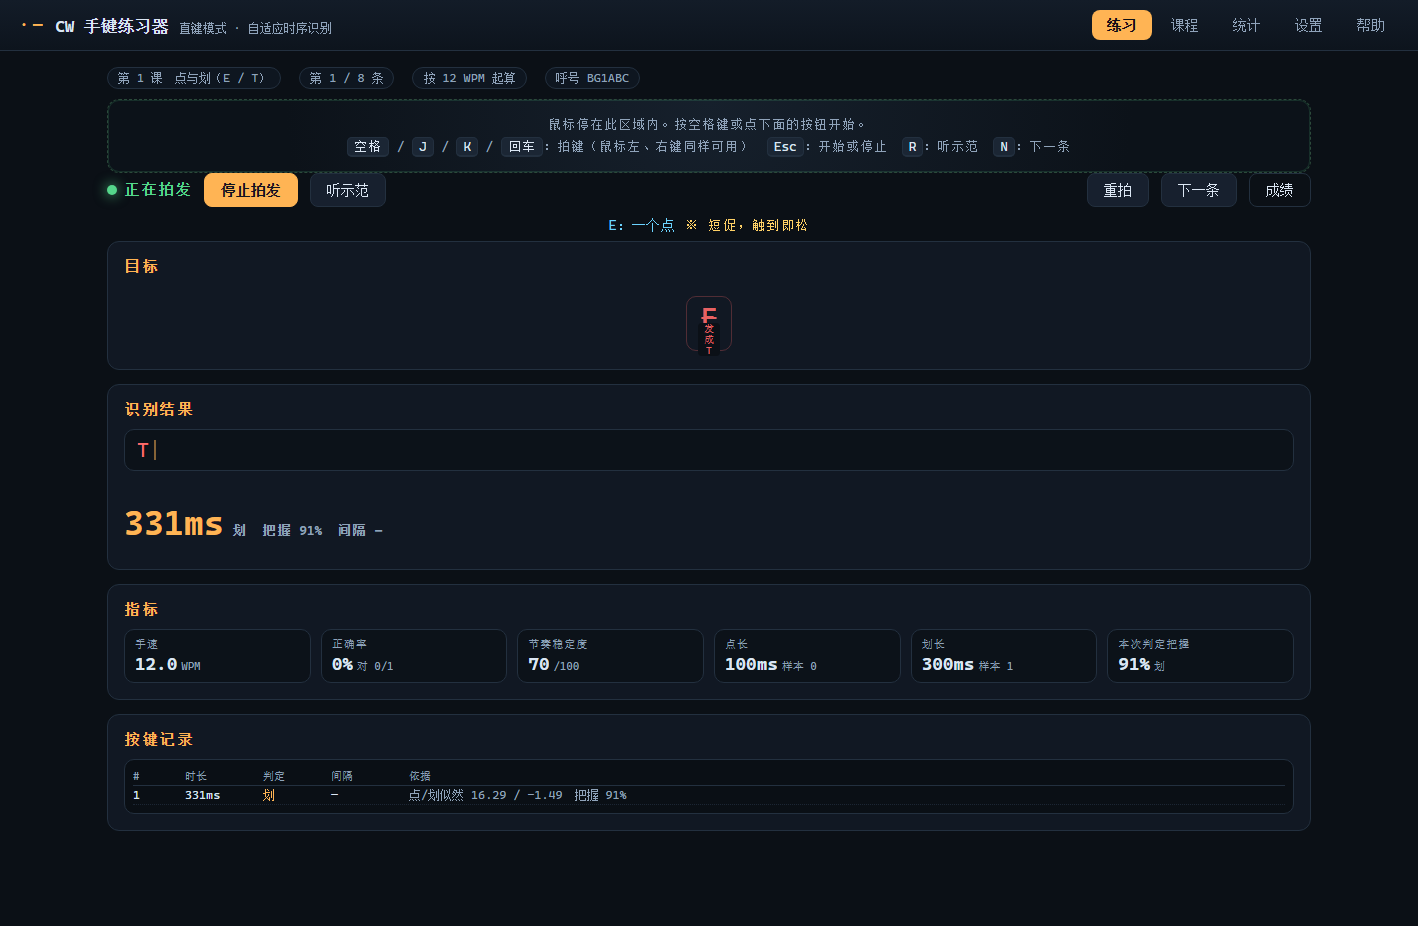
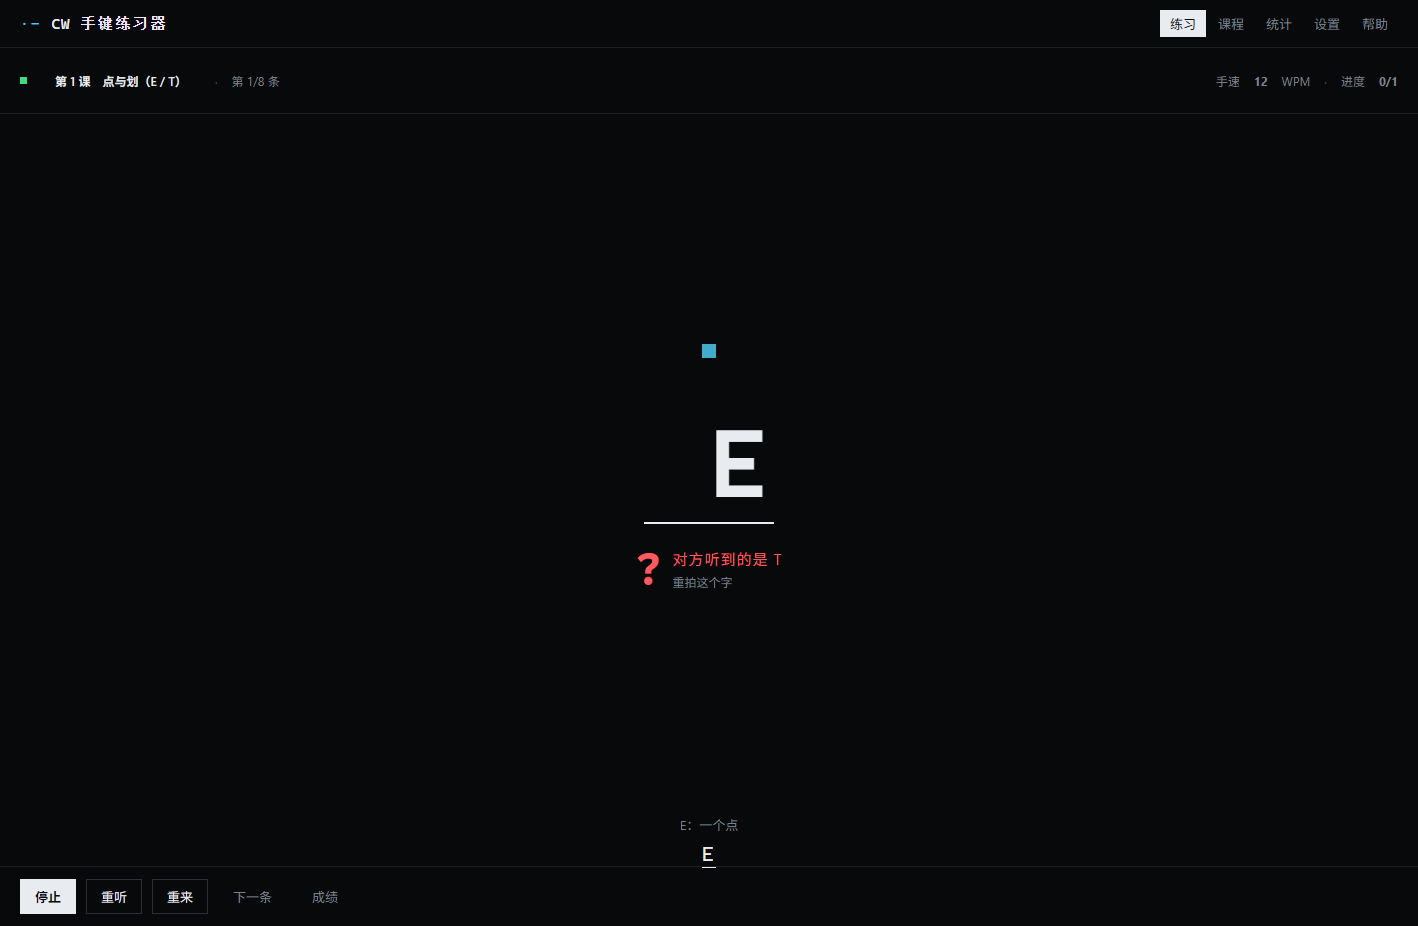
docs: 更新架构说明与线上验收截图
- README：判定说明、目录结构、测试命令、已知取舍
- 重新生成 .shots-live 下的 12 张验收截图
- .gitignore 忽略 cdp-profile/

diff --git a/README.md b/README.md
@@ -15,29 +15,31 @@
 ```bash
 pnpm install          # 装开发依赖（只有 vite / typescript / @types/node）
 pnpm dev              # 开发服务器，默认 http://localhost:5173
-pnpm test             # 核心逻辑单元测试（Node 原生，零依赖，19 个用例）
+pnpm test             # 核心逻辑单元测试（Node 原生，零依赖，36 个用例）
 pnpm build            # tsc 类型检查 + vite 打包到 dist/
 pnpm build:nodeps     # 零依赖构建（只用 Node，见下文“为什么有两套构建”）
 pnpm verify:dist      # 产物自检：路径/依赖是否能在子目录下正常部署
 pnpm test:smoke       # 无浏览器冒烟测试：用最小 DOM 桩把产物真跑一遍
+pnpm test:audio       # 离线渲染侧音波形，断言点划长度与段数
 pnpm serve            # 用零依赖静态服务器预览 dist（默认 8080）
 pnpm test:browser     # 用无头 Chrome 真点真拍并截图（见“浏览器实测”）
 ```
 
-打开页面后：**课程**里选一课 → **练习** → 点「武装手键」（或按 `Esc`）→ 像拍真直键一样点击。
+打开页面后：**课程**里选一课 → **练习** → 点「开始」（或按 `Esc`）→ 像拍真直键一样点击。
 
 没有硬件也能练：鼠标左键/右键、键盘 `空格` `J` `K` `回车` 都可以当直键。
-`Esc` 武装/解除，`R` 听当前条目的标准参考发送，`N` 下一条。
+`Esc` 开始/停止，`R` 听当前条目的标准参考发送，`N` 下一条。
 
 ## 自动化测试与“截图验收”
 
-三层，全部零依赖（不引入 puppeteer/playwright）：
+四层，全部零依赖（不引入 puppeteer/playwright）：
 
 | 命令 | 做什么 |
 | --- | --- |
-| `pnpm test` | 核心算法单测：时序模型收敛、抖动 ±18% 下的解码、不同手速自适应、回改行为、对齐计分、性能预算 |
-| `pnpm test:smoke` | 构建产物 + 最小 DOM 桩，真跑一遍 App：路由、渲染、拍一段字、结算弹窗（25 项断言） |
-| `pnpm test:browser` | 用 CDP 驱动无头 Chrome 打开页面，真点按钮、真按空格拍键，截图并断言 |
+| `pnpm test` | 引擎行为规格（拍错不放过、前缀不判错、50~250ms 手速自适应）+ 码表、课程、进度 |
+| `pnpm test:smoke` | 构建产物 + 最小 DOM 桩，真跑一遍 App：路由、渲染、拍一段字、结算弹窗（26 项断言） |
+| `pnpm test:audio` | `OfflineAudioContext` 离线渲染，断言一个点只响 100ms、PARIS 响 14 段 |
+| `pnpm test:browser` | 用 CDP 驱动无头 Chrome 打开页面，真点按钮、真按空格拍键，截图并断言（25 项） |
 
 `pnpm test:browser` 需要先起静态服务器：
 
@@ -47,9 +49,10 @@ pnpm test:browser                     # 截图输出到 .shots/
 CW_URL=https://lionnatsu.github.io/cw-practice/ pnpm test:browser   # 也可以直接测线上
 ```
 
-它会检查：页面不是空白、无 JS 报错、武装状态、**判对的字是不是真的变绿**（读 computed
-style 比对 rgb 值）、判错是不是真的变红、诊断面板有记录、结算弹窗有成绩，并留下 10 张
-截图（帮助/练习/武装/拍对/拍错/结算/课程/设置/统计）。
+它会检查：页面不是空白、无 JS 报错、开始状态、**判对的字是不是真的变绿**（读 computed
+style 比对 rgb 值）、按住时发报条是不是真的长出来、拍错是不是真的给红问号、
+成绩弹窗有成绩、报文里能看出分词，并留下 12 张截图（帮助/练习/开始/按住/拍对/拍错/
+结算/课程/长报文/设置/统计）。
 
 > 之所以做这些，是因为踩过一次真实的坑：线上白屏了两轮，第一轮是 Pages 发的是仓库根
 > 目录而不是构建产物，第二轮是产物里残留 `src="/./main.js"`（绝对路径 → 子目录下 404）。
@@ -57,44 +60,35 @@ style 比对 rgb 值）、判错是不是真的变红、诊断面板有记录、
 
 ## 它是怎么“听懂”手键的
 
-三层结构，都在 `src/core/`：
+全部判定都在 `src/core/practice.ts` 一个文件里，别处不再判。练习是**串行**的：
+目标字从左到右，一次只发一个字。
 
-### 1. 自适应时序模型（`timing-model.ts`）
+### 1. 按你自己的长短读码
 
-维护最近 64 次按键，每次都用当前模型对它们重新做一次 **2-means 聚类**，
-得到“点长、划长”以及各自的相对标准差 σ。
+按键本身不判定，只记下时长。判定发生在停顿：静音超过 `symbolGapMax`（2.5 个单位）
+就认为这个字发完了。
 
-为什么不能只做指数滑动平均：一旦某次分类把 150ms 的“点”误判成“划”，这个错误会被
-直接吸收进划长的估计，模型越跑越歪（实测会把点划合并）。整体重估让误差不会自我强化，
-点划本来就重叠时也能如实反映（σ 变大、置信度降低，而不是硬判）。
+这时才把这次尝试整段读一遍。读法是**枚举说得通的单位时长假设**，各自算一个代价：
 
-### 2. 全局最优分割（`decoder.ts`）
+- 每个码元要么是 1 个单位（点）、要么是 3 个单位（划），取更像的那个；
+- 段内间隔应当接近 1 个单位；
+- 离起始速度越远代价越高。
 
-每按一下，对**到目前为止的全部按键**重跑一遍动态规划：
+候选的单位来自这次尝试自己的时长和间隔，再加上“目标字本该发几个单位”这个提示。
+代价最低的假设胜出。所以起始速度设得不准也不致命：第一两个字之后，
+点长就跟着你的手走了。
 
-```
-dp[i] = 前 i 个按键解析完、且恰好以一个字符结尾的最小代价
-转移  = dp[start] + 码元似然(start..end) + 字内间隔代价 + 断字代价 + 收尾代价
-```
+### 2. 宁可多等，不误判
 
-- 码元似然：对数正态，来自第 1 层的自适应参数
-- 间隔代价：三种间隔（1/3/7 个单位）各用一个对数正态去比较，取相对最优的差值，
-  保证量级和码元似然可比（早期版本这里用固定常数，结果“断字代价”被 40 nat 的
-  码元似然彻底淹没，整句会被认成一串 E）
-- 收尾代价：必须有（否则“把两个字符拼成一个更长的码字”因为不用收尾而显得更便宜）
-- 语料偏置：课程里出现过的字符有一点点优惠，用来打破 `PARIS` vs `P+5` 这类平局
+断字用的是**最宽松的那个说得通的假设**，而不是最优假设。刚开始拍时点划还分不清，
+一个 540ms 的按键既可能是慢的点、也可能是快的划；这时急着断字，就会出现
+“字没拍完就给负反馈”。宽松一点只是多等一会儿，误判却会把人打回去重拍。
 
-### 3. 可回改的落账（`decoder.ts` 的 `updateCommitted`）
+### 3. 一个字只有整个读对才收下
 
-维护最近 6 轮的解释，取它们的**最长公共前缀**作为“已落账”的内容；
-公共前缀变短时，已落账的字会被自动撤回/改写，UI 上提示 `已回改前面第 N 个字符：T → 5`。
-抄收区里的斜体字就是“还没落定、随时可能变”的部分。用户一停顿（默认 3.5 个单位时间，
-可在设置里调），整条最优解释立刻全部落定。
-
-### 附：为什么“停顿”很重要
-
-CW 里字符之间是靠静音长度区分的（1 / 3 / 7 个单位 = 码元内 / 字符间 / 词间）。
-停顿既是解码证据，也是“空格”的来源 —— 你不需要真的把空格发出来。
+- 读出来正好是目标字 → 收下。**只要码形凑齐就立刻收**，不必等停顿，所以手感是跟手的；
+- 读出来不是目标字 → 不认，给一次负反馈（“对方听到的是 X”），原地重发；
+- 拍错的字不前进、不跳过。全对才走完。
 
 ## 关于硬件与精度（重要）
 
@@ -103,8 +97,8 @@ CW 里字符之间是靠静音长度区分的（1 / 3 / 7 个单位 = 码元内 
 - 12 WPM（点长 100ms）下完全够用；25 WPM 以上（点长 48ms）量化台阶相对点长就变大了，
   识别开始变糙。真要高速高精度，需要能上报真实时间戳的串口/键盘设备。
 - 程序监听的是 `mousedown` / `mouseup`（不是 `click`），所以系统双击检测不会干扰计时。
-- 设置页最下面有一个**校准台**：连拍几十下，可以实时看到点长/划长/σ/误判概率的收敛情况，
-  识别不准时先看这里。
+- 输入只丢弃短于 18ms 的脉冲。低于它的按键根本不像人按的，而丢一个点就是丢一个码元。
+- 设置页最下面有一个**校准台**：连拍几十下，可以直接看到自己的点长、划长。
 
 ## 目录结构
 
@@ -112,14 +106,11 @@ CW 里字符之间是靠静音长度区分的（1 / 3 / 7 个单位 = 码元内 
 index.html            页面骨架（顶部 tab + #view 容器）
 src/styles.css        全部样式（深色、等宽字体）
 src/main.ts           入口：装配 App、路由、各视图
-src/App.ts            全局状态宿主（设置、进度、音频、当前会话）
+src/App.ts            全局状态宿主（设置、进度、音频、当前引擎）
 src/core/             ← 与 UI 完全解耦，可在 Node 里直接测
   types.ts            公共类型
   morse.ts            码表 + 前缀树 + prosign
-  timing-model.ts     自适应点划模型（2-means 重估、置信度）
-  decoder.ts          全局最优分割 + 可回改落账
-  alignment.ts        解码结果与目标文本的编辑距离对齐 + 成绩汇总
-  session.ts          会话编排（按键 → 模型 → 解码 → 对齐 → 快照）
+  practice.ts         练习引擎：读码、判定、速度估计、成绩单（唯一判定来源）
   lessons.ts          课程内容（词组、缩略语、QSO，带中文含义）
   audio.ts            侧音 + 参考发送（Web Audio 调度）
   settings.ts         设置与进度的 localStorage 持久化
@@ -132,7 +123,12 @@ src/ui/               ← 视图与输入
   stats-view.ts       统计（逐字符错误率、课程记录、导入导出）
   settings-view.ts    设置 + 手键校准台
   help-view.ts        帮助
-tests/core.test.ts    核心逻辑测试（node:test，零依赖）
+tests/engine.test.ts  引擎行为规格：判定、分段、手速自适应（node:test，零依赖）
+tests/core.test.ts    外围：码表、课程内容、设置与进度、整段收发
+tests/helpers.ts      按标准节奏把码形“拍”成按键序列
+tests/dom-smoke.mjs   最小 DOM 桩跑构建产物
+tests/audio-check.mjs 离线渲染侧音波形做检查
+tests/screenshot.mjs  CDP 驱动无头 Chrome 真拍真截图
 scripts/build.mjs     零依赖静态站点构建
 ```
 
@@ -156,7 +152,8 @@ scripts/build.mjs     零依赖静态站点构建
 
 ## 已知取舍 / 后续可做
 
-- 解码是“每键一次全段重算”，几百个按键的报文平均每键约 1~3ms（见性能测试），
-  但如果将来要练上千字符的超长报文，需要改成滑动窗口或增量 Viterbi。
-- 输入键位目前是内置的（空格/J/K/回车），设置页还没有自定义键位。
-- 只支持直键模式；桨式（paddle / iambic）需要改成“点划由设备自动生成”的另一套输入层。
+- 判定是“每次停顿读一次这次尝试”，开销与一次尝试的码元数成正比，与报文总长无关。
+- 起始速度设得离实际太远时，第一个字可能是读不准的（尤其 E / T 这种单码元的字）。
+  引擎会用“目标字本该发几个单位”做提示来自救，但把设置里的速度调到接近自己的手速最省事。
+- 只对空格做了分词，标点与过程信号（AR、SK 等）还没进课程。
+- 输入只支持直键；桨式（paddle / iambic）需要另做一层“设备自己生成点划”的输入。
